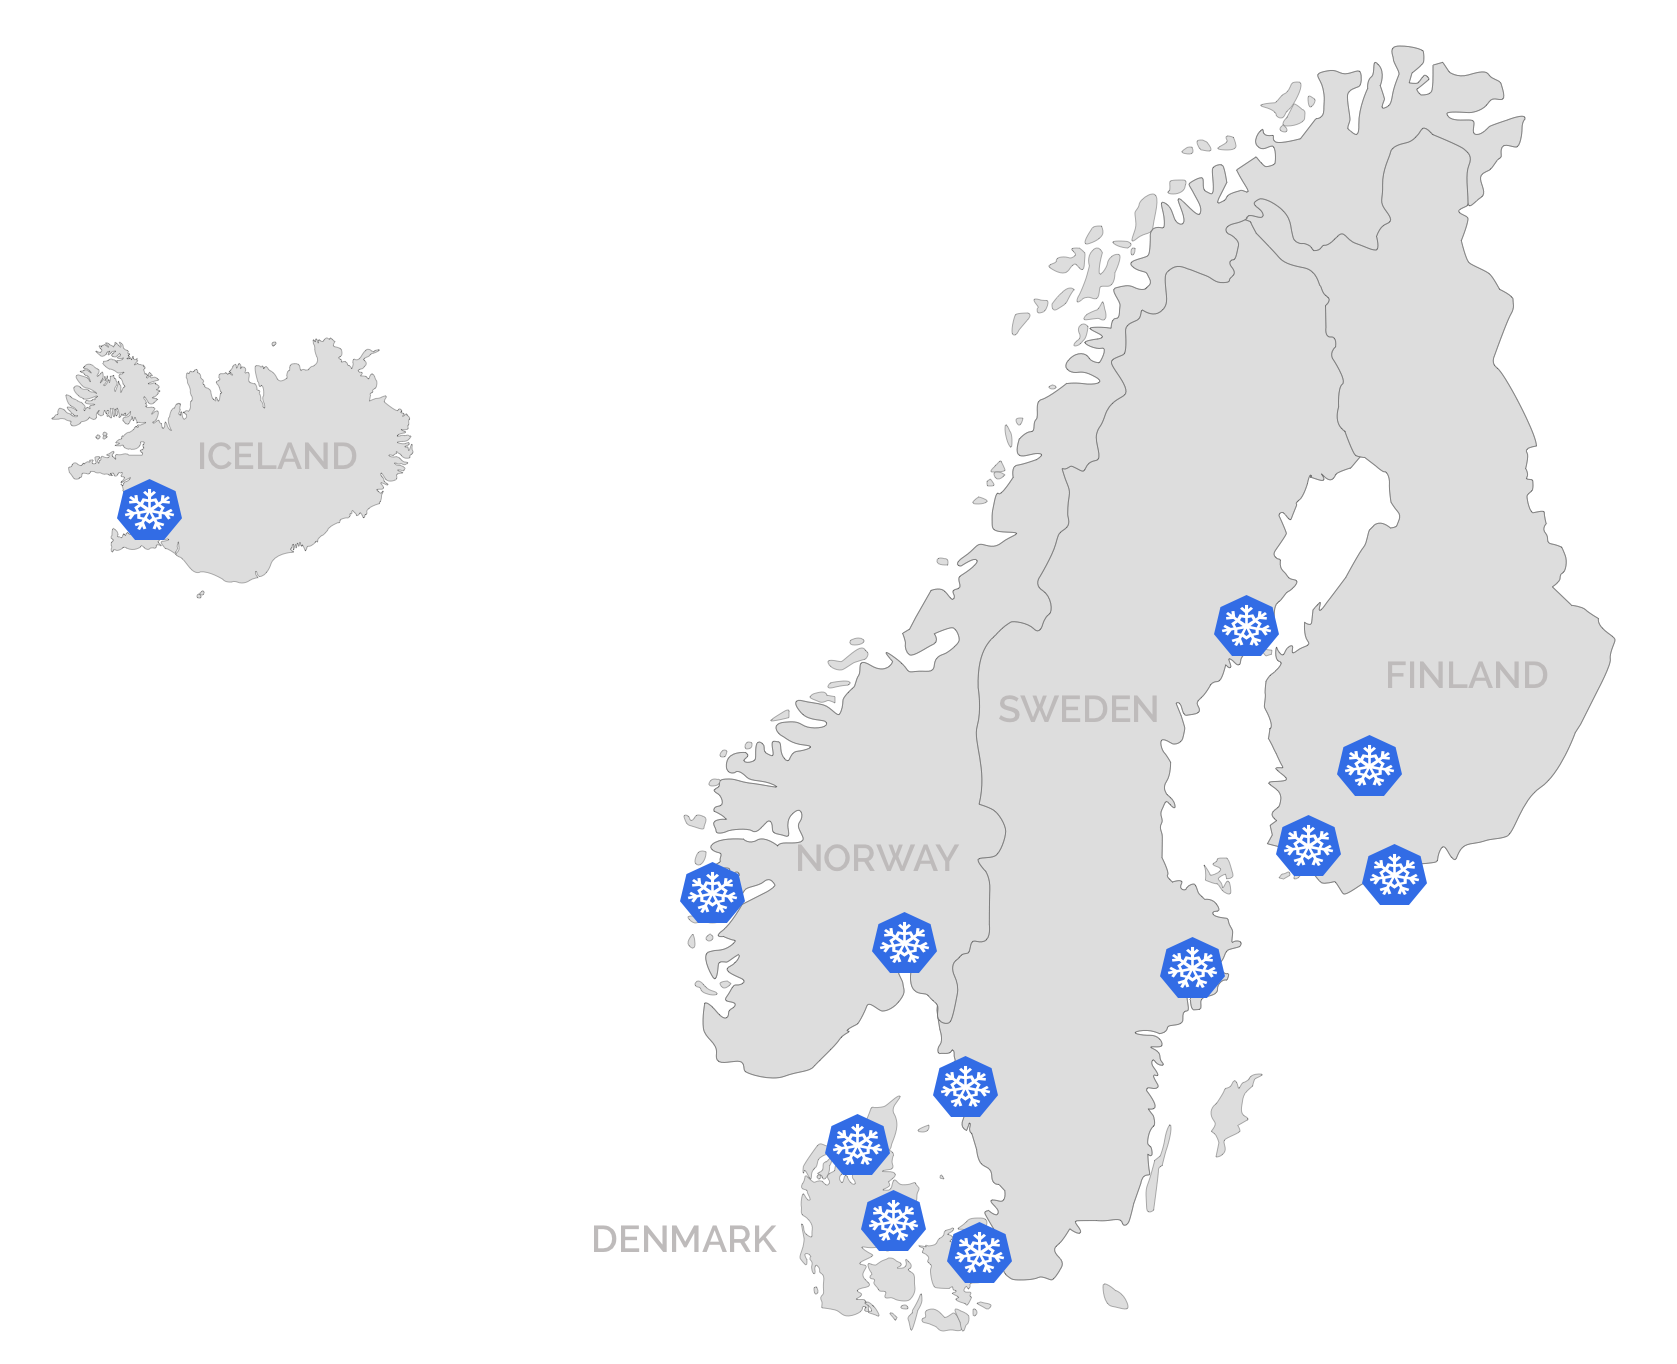
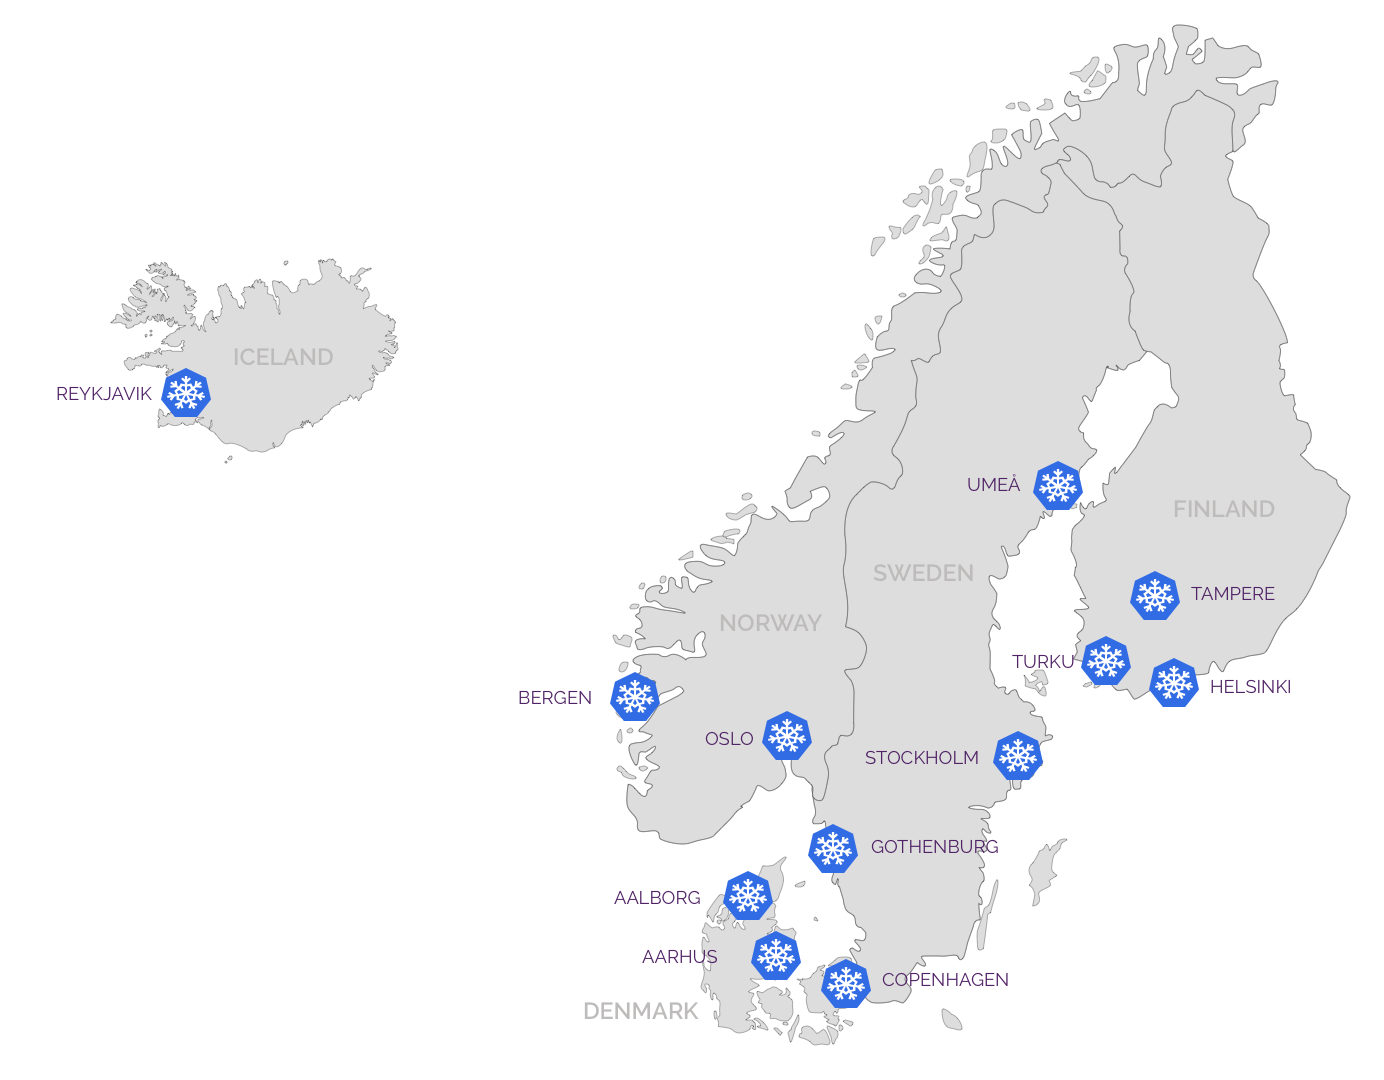
Add map and tweak more stuff

Changed region(s): [[0.3418, 0.0, 0.9942, 0.9778], [0.0311, 0.2444, 0.3107, 0.4278], [0.5282, 0.55, 0.5903, 0.5806]]

diff --git a/pages/index.vue b/pages/index.vue
@@ -2,6 +2,7 @@
   <section style="color: black;">
     <section-one></section-one>
     <section-two></section-two>
+    <section-map></section-map>
     <section-three></section-three>
     <section-four></section-four>
     <section-five></section-five>
@@ -13,12 +14,14 @@ import SlackInvite from "~/graphql/slackInvite.gql";
 import SectionOne from "~/components/landing/SectionOne.vue";
 import SectionTwo from "~/components/landing/SectionTwo.vue";
 import SectionThree from "~/components/landing/SectionThree.vue";
+import SectionMap from "~/components/landing/SectionMap.vue";
 import SectionFour from "~/components/landing/SectionFour.vue";
 import SectionFive from "~/components/landing/SectionFive.vue";
 export default {
   components: {
     SectionOne: SectionOne,
     SectionTwo: SectionTwo,
+    SectionMap: SectionMap,
     SectionThree: SectionThree,
     SectionFour: SectionFour,
     SectionFive: SectionFive

diff --git a/assets/style/app.scss b/assets/style/app.scss
@@ -63,11 +63,8 @@
             }
         }
 
-
-
         h1{
             color: white;
-            font-size: 55px;
         }
         h3 {
             color: white;
@@ -90,9 +87,17 @@
     }
 
     .section-three {
-        background-color: $darkgrey;
+        background-color: $pink;
         height: 100%;
         color: white;
+        padding-bottom: 25px;
+        padding-top: 25px;
+    }
+
+    .section-map {
+        background-color: white;
+        height: 100%;
+        color: black;
         padding-bottom: 25px;
         padding-top: 25px;
     }
@@ -126,6 +131,10 @@
 
     .slack-invite{
         border-color: $purple;
+    }
+
+    .v-toolbar__title {
+        overflow: inherit;
     }
 
     .theme--light.v-sheet.v-app-bar {

diff --git a/components/landing/SectionMap.vue b/components/landing/SectionMap.vue
@@ -1,0 +1,13 @@
+<template>
+  <v-container fluid class="section-map">
+    <v-row>
+      <v-col cols="2"></v-col>
+      <v-col sm="12" md="12" lg="8" cols="12" justify="center" align="center">
+        <h2>Alignment across borders</h2>
+        <p style="margin-bottom:40px; font-size: 20px;">Cloud Native Nordics is a meetup aliance across the five countries in northern europe. We help each other provide the best meetups locally and help new groups get up to speed as fast as possible.</p>
+        <v-img contain max-width=80% src="/map.png" />
+      </v-col>
+      <v-col cols="2"></v-col>
+    </v-row>
+  </v-container>
+</template>

diff --git a/components/landing/SectionFour.vue b/components/landing/SectionFour.vue
@@ -4,7 +4,8 @@
       <v-spacer></v-spacer>
       <v-col cols="8" justify="center" align="center">
         <v-row justify="center">
-          <br />Cloud Native Nordics is rapidly growing, and so far we've gathered
+                <h2>Cloud Native Nordics is rapidly growing</h2>
+                <p>... so far we have gathered...</p>
         </v-row>
         <br />
         <v-row justify="center" align="center">

diff --git a/components/landing/SectionThree.vue b/components/landing/SectionThree.vue
@@ -5,7 +5,7 @@
       <v-col cols="8" justify="center" align="center">
         <h2
           style="color: white; margin-top: 40px;"
-        >Building and scaling the adoption of Cloud Native in the nordics</h2>
+        >Scaling adoption of Cloud Native in the nordics</h2>
         <br />
         <p
           style="margin-bottom:40px; font-size: 20px;"
